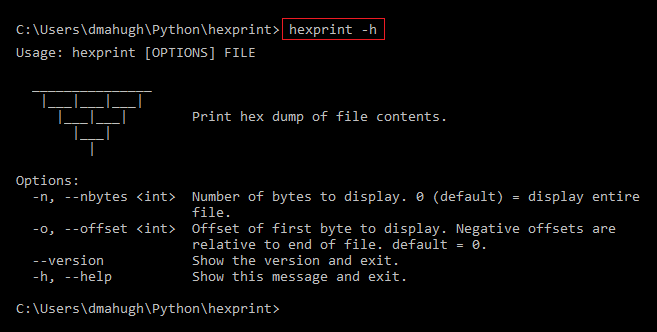
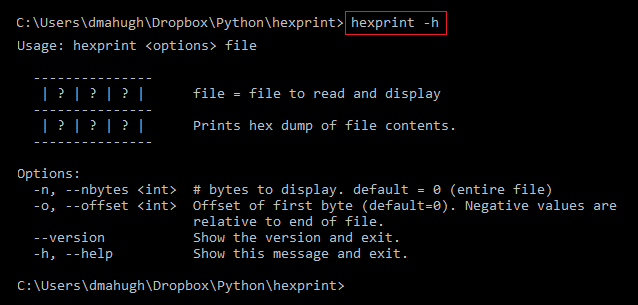
update screenshot

diff --git a/hexprint.py b/hexprint.py
@@ -12,11 +12,11 @@ CONTEXT_SETTINGS = dict(help_option_names=['-h', '--help'])
 @click.command(context_settings=CONTEXT_SETTINGS, options_metavar='<options>')
 @click.argument('file', type=click.Path(exists=True), metavar="file")
 @click.option('-n', '--nbytes', default=0,
-              help='Number of bytes to display. ' +
-              '0 (default) = display entire file.', metavar='<int>')
+              help='# bytes to display. ' +
+              'default = 0 (entire file)', metavar='<int>')
 @click.option('-o', '--offset', default=0,
-              help='Offset of first byte to display. ' +
-              'Negative offsets are relative to end of file. default = 0.',
+              help='Offset of first byte (default=0). ' +
+              'Negative values are relative to end of file.',
               metavar='<int>')
 @click.version_option(version='1.0', prog_name='Hexprint')
 def cli(file, offset, nbytes):
